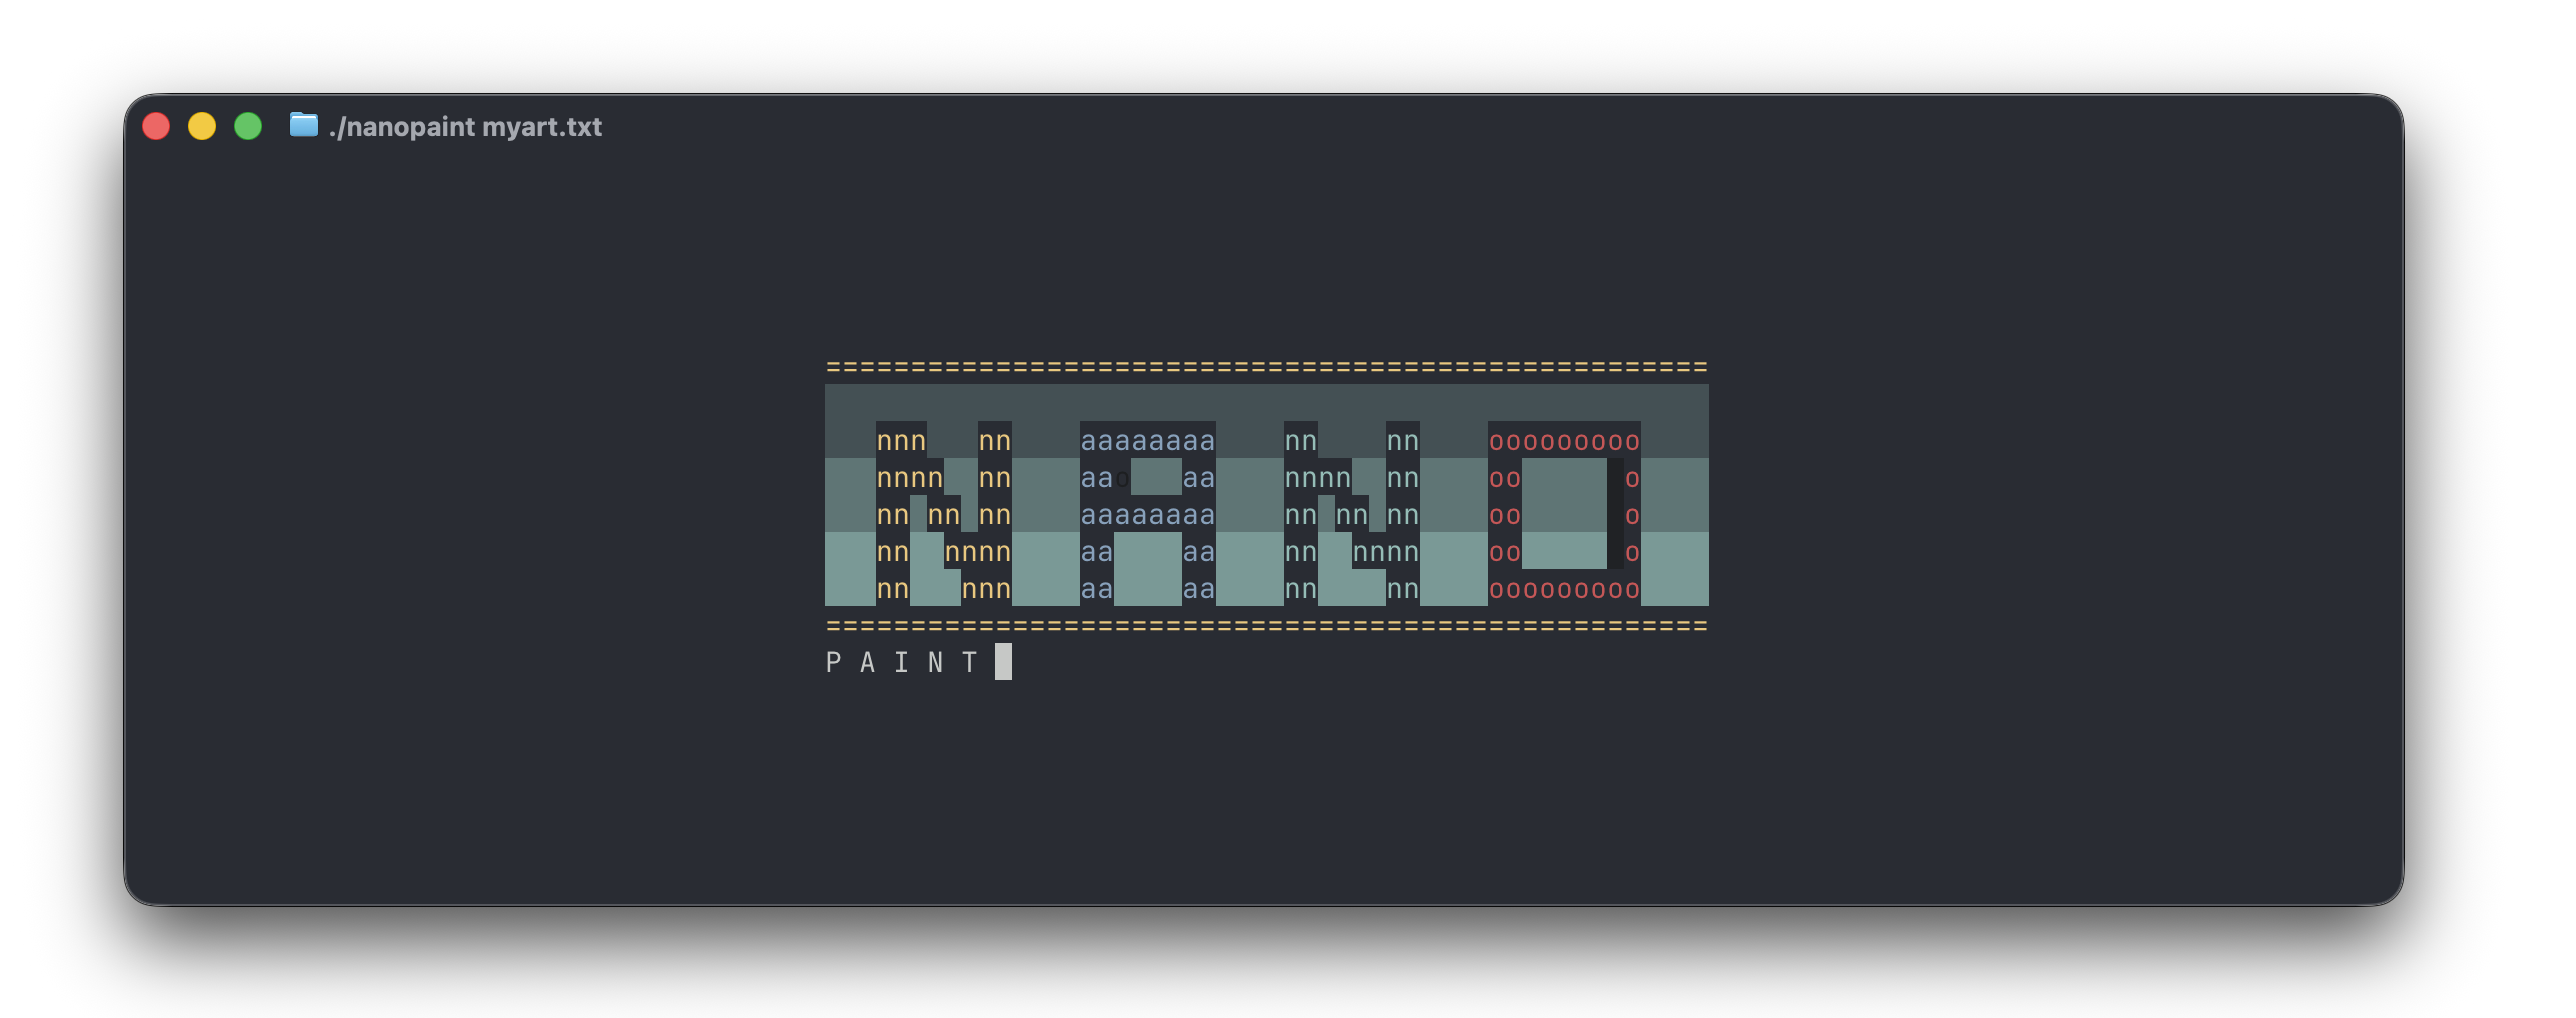
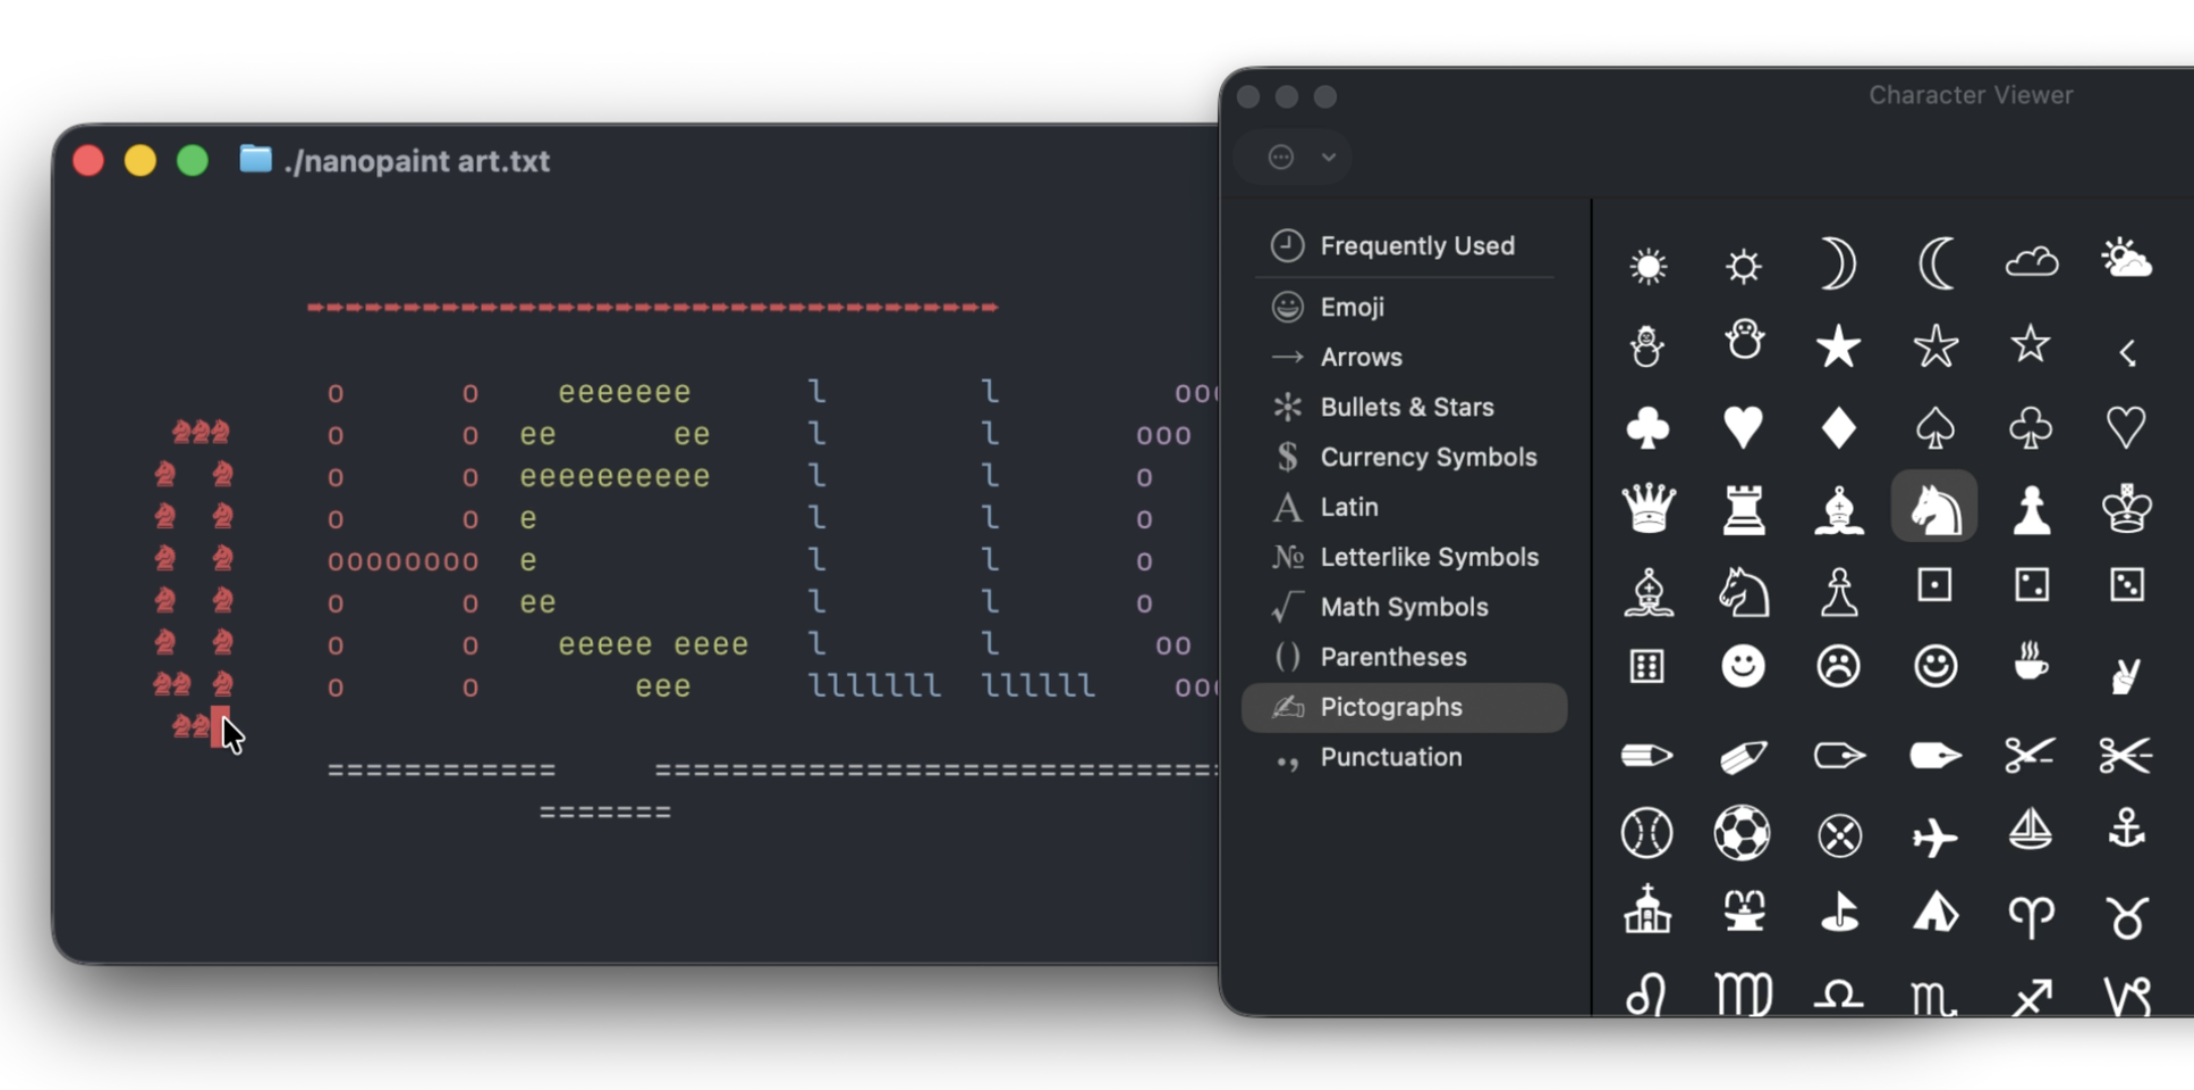
screenshot + fix save

diff --git a/nanopaint.c b/nanopaint.c
@@ -402,6 +402,26 @@ static void handleMouseEvent(void) {
 /*  Handle a regular key press — set brush character or colour        */
 /* ----------------------------------------------------------------- */
 
+// Read exactly N bytes with blocking semantics. Temporarily sets VMIN=1
+// so we don't time out reading continuation bytes from the Character Viewer.
+static int readn(unsigned char *buf, int n) {
+    struct termios t;
+    tcgetattr(STDIN_FILENO, &t);
+    t.c_cc[VMIN] = n;
+    t.c_cc[VTIME] = 0;
+    tcsetattr(STDIN_FILENO, TCSANOW, &t);
+    int got = 0;
+    while (got < n) {
+        int r = read(STDIN_FILENO, buf + got, n - got);
+        if (r <= 0) break;
+        got += r;
+    }
+    t.c_cc[VMIN] = 0;
+    t.c_cc[VTIME] = 1;
+    tcsetattr(STDIN_FILENO, TCSANOW, &t);
+    return got;
+}
+
 static void handleKey(unsigned char c) {
     // Digit keys 0-9 set the brush colour.
     if (c >= '0' && c <= '9') {
@@ -418,18 +438,20 @@ static void handleKey(unsigned char c) {
         brush[0] = c;
         brush[1] = '\0';
     } else if (len > 1) {
-        char tmp[5];
-        tmp[0] = c;
-        int ok = 1;
-        for (int i = 1; i < len; i++) {
-            unsigned char b;
-            if (read(STDIN_FILENO, &b, 1) != 1) { ok = 0; break; }
-            if ((b & 0xC0) != 0x80) { ok = 0; break; }
-            tmp[i] = b;
-        }
-        if (ok) {
-            tmp[len] = '\0';
-            strcpy(brush, tmp);
+        unsigned char tail[4];
+        int got = readn(tail, len - 1);
+        if (got == len - 1) {
+            int ok = 1;
+            for (int i = 0; i < len - 1; i++) {
+                if ((tail[i] & 0xC0) != 0x80) { ok = 0; break; }
+            }
+            if (ok) {
+                char tmp[5];
+                tmp[0] = c;
+                for (int i = 0; i < len - 1; i++) tmp[i + 1] = tail[i];
+                tmp[len] = '\0';
+                strcpy(brush, tmp);
+            }
         }
     }
 }
@@ -439,9 +461,9 @@ static void handleKey(unsigned char c) {
 /* ----------------------------------------------------------------- */
 
 static void saveFile(void) {
-    if (!filepath) return;
+    const char *path = filepath ? filepath : "untitled.txt";
 
-    FILE *fp = fopen(filepath, "w");
+    FILE *fp = fopen(path, "w");
     if (!fp) return;
 
     for (int r = 0; r < canvas_rows; r++) {
@@ -452,6 +474,8 @@ static void saveFile(void) {
         fputc('\n', fp);
     }
     fclose(fp);
+
+    filepath = path;
 }
 
 /* ----------------------------------------------------------------- */

diff --git a/README.md b/README.md
@@ -17,6 +17,7 @@ clang -O3 -Wall -Wextra -o nanopaint nanopaint.c
 - 0-9 are colors (0=black 1=red 2=grn 3=yel 4=blu 5=mag 6=cyn 7=wht 8=brblk 9=brred)
 - Any character inserted (i.e. any keystroke) will set the active character.
 - click-drag and move the mouse to paint
+- CTRL+S to save
 
 **TODO**: 
 - [ ] Save to file even if it doesn't exist
